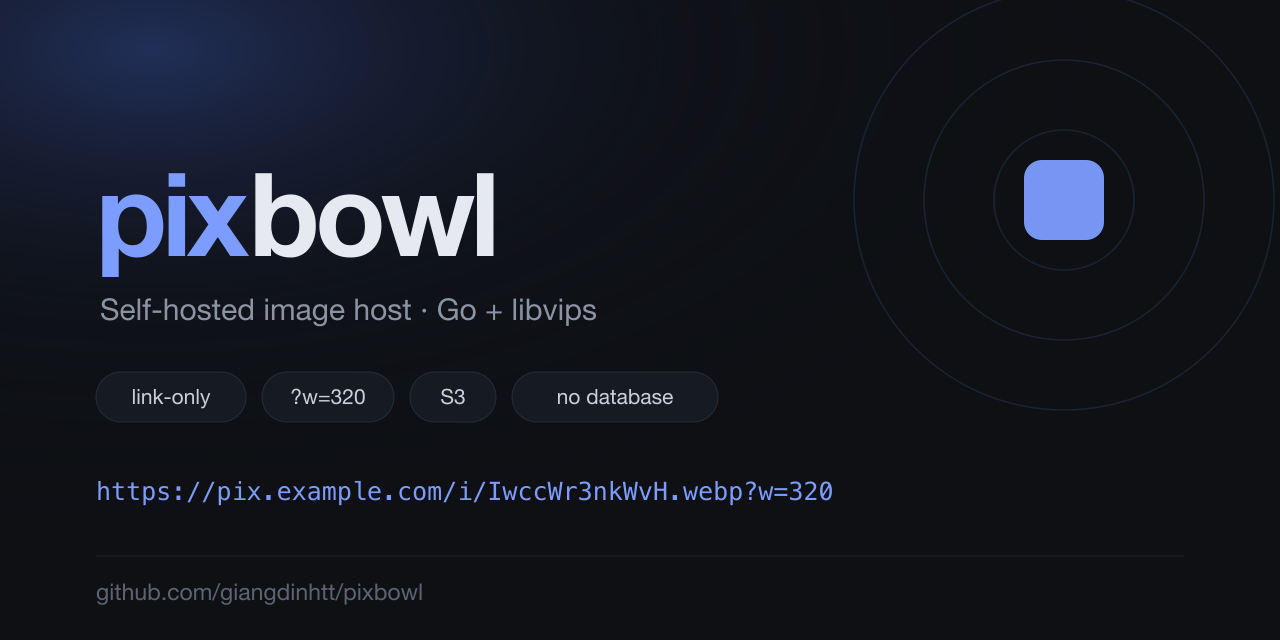
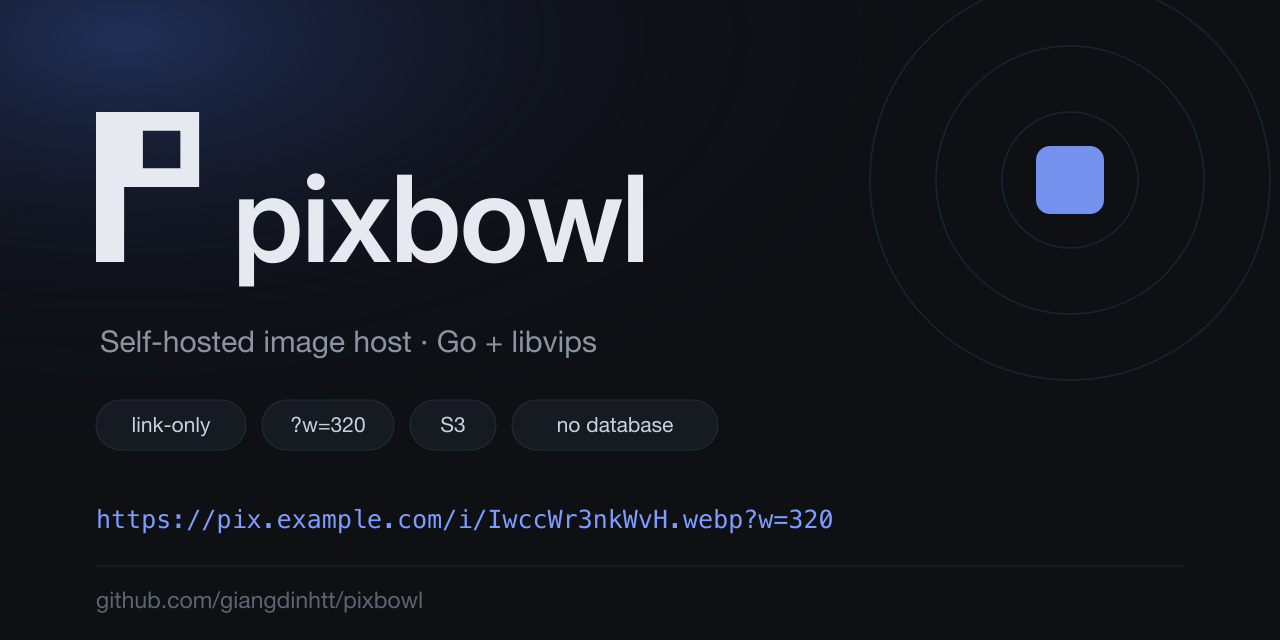
feat: P monogram identity with a pixel counter
The mark is the initial P whose counter is a square pixel: the letter and
the idea in one shape.

- symbol, outlined wordmark (Inter SemiBold), horizontal and stacked lockups
- favicon.ico / favicon.svg and the full web/PWA icon set, served by the app
  instead of the old 204 stub, with <link rel=icon> in both pages
- social preview card rebuilt around the new mark
- brand guide in docs/logo/README.md (clear space, sizes, colour, misuse)
- README shows the lockup

diff --git a/web/delete.html b/web/delete.html
@@ -4,6 +4,8 @@
 <meta charset="utf-8">
 <meta name="viewport" content="width=device-width, initial-scale=1">
 <meta name="robots" content="noindex, nofollow">
+<link rel="icon" href="/favicon.ico" sizes="32x32">
+<link rel="icon" href="/favicon.svg" type="image/svg+xml">
 <title>pixbowl — delete image</title>
 <style>
   :root { --bg:#0e1014; --panel:#161a21; --line:#262c36; --text:#e6e9ef; --muted:#8b94a3; --danger:#ff7a7a; }

diff --git a/web/index.html b/web/index.html
@@ -4,6 +4,8 @@
 <meta charset="utf-8">
 <meta name="viewport" content="width=device-width, initial-scale=1">
 <meta name="robots" content="noindex, nofollow">
+<link rel="icon" href="/favicon.ico" sizes="32x32">
+<link rel="icon" href="/favicon.svg" type="image/svg+xml">
 <title>pixbowl — upload images</title>
 <style>
   :root {

diff --git a/docs/logo/icons/head-snippet.html b/docs/logo/icons/head-snippet.html
@@ -1,0 +1,5 @@
+<link rel="icon" href="/favicon.ico" sizes="48x48">
+<link rel="icon" href="/favicon.svg" type="image/svg+xml">
+<link rel="apple-touch-icon" href="/apple-touch-icon.png">
+<link rel="manifest" href="/site.webmanifest">
+<meta name="theme-color" content="#0E1014">

diff --git a/internal/server/pages.go b/internal/server/pages.go
@@ -9,6 +9,7 @@ import (
 
 	"github.com/giangdinhtt/pixbowl/internal/id"
 	"github.com/giangdinhtt/pixbowl/internal/imageproc"
+	"github.com/giangdinhtt/pixbowl/web"
 )
 
 func (s *Server) handleIndex(w http.ResponseWriter, _ *http.Request) {
@@ -28,6 +29,18 @@ func (s *Server) handleDeletePage(w http.ResponseWriter, r *http.Request) {
 	w.Header().Set("Cache-Control", "no-store")
 	w.Header().Set("Content-Security-Policy", contentSecurityPolicy)
 	_, _ = io.WriteString(w, strings.ReplaceAll(s.deletePage, "{{ID}}", imageID))
+}
+
+func (s *Server) handleFaviconSVG(w http.ResponseWriter, _ *http.Request) {
+	w.Header().Set("Content-Type", "image/svg+xml")
+	w.Header().Set("Cache-Control", "public, max-age=604800")
+	_, _ = w.Write(web.FaviconSVG)
+}
+
+func (s *Server) handleFaviconICO(w http.ResponseWriter, _ *http.Request) {
+	w.Header().Set("Content-Type", "image/x-icon")
+	w.Header().Set("Cache-Control", "public, max-age=604800")
+	_, _ = w.Write(web.FaviconICO)
 }
 
 func (s *Server) handleLiveness(w http.ResponseWriter, _ *http.Request) {

diff --git a/internal/server/server_test.go b/internal/server/server_test.go
@@ -681,3 +681,21 @@ func TestUploadTokenAlongsideBasicAuth(t *testing.T) {
 		t.Fatalf("upload via token = %d, want 200", viaToken.StatusCode)
 	}
 }
+
+func TestFavicons(t *testing.T) {
+	ts := newTestServer(t, nil)
+	cases := []struct{ path, contentType string }{
+		{"/favicon.svg", "image/svg+xml"},
+		{"/favicon.ico", "image/x-icon"},
+	}
+	for _, tc := range cases {
+		resp := get(t, ts.URL+tc.path)
+		resp.Body.Close()
+		if resp.StatusCode != http.StatusOK {
+			t.Errorf("%s = %d, want 200", tc.path, resp.StatusCode)
+		}
+		if got := resp.Header.Get("Content-Type"); got != tc.contentType {
+			t.Errorf("%s content type = %q, want %q", tc.path, got, tc.contentType)
+		}
+	}
+}

diff --git a/internal/server/server.go b/internal/server/server.go
@@ -99,9 +99,8 @@ func (s *Server) Handler() http.Handler {
 	mux.HandleFunc("GET /liveness", s.handleLiveness)
 	mux.HandleFunc("GET /healthz", s.handleHealth)
 	mux.HandleFunc("GET /robots.txt", s.handleRobots)
-	mux.HandleFunc("GET /favicon.ico", func(w http.ResponseWriter, _ *http.Request) {
-		w.WriteHeader(http.StatusNoContent)
-	})
+	mux.HandleFunc("GET /favicon.ico", s.handleFaviconICO)
+	mux.HandleFunc("GET /favicon.svg", s.handleFaviconSVG)
 	mux.HandleFunc("OPTIONS /", s.handlePreflight)
 
 	return s.wrap(mux)

diff --git a/web/embed.go b/web/embed.go
@@ -7,3 +7,9 @@ var IndexHTML string
 
 //go:embed delete.html
 var DeleteHTML string
+
+//go:embed favicon.svg
+var FaviconSVG []byte
+
+//go:embed favicon.ico
+var FaviconICO []byte

diff --git a/docs/logo/README.md b/docs/logo/README.md
@@ -1,0 +1,55 @@
+# pixbowl logo
+
+The mark is a capital **P** whose counter is a **square pixel** — the initial and
+the idea in one shape. The wordmark is Inter SemiBold, outlined to paths and
+tracked at −1.8%.
+
+## Files
+
+| File | Use |
+|---|---|
+| `pixbowl-symbol.svg` | primary mark, ink on light backgrounds |
+| `pixbowl-symbol-white.svg` | reversed mark for dark backgrounds |
+| `pixbowl-wordmark.svg` | wordmark only (headers, footers, README badges) |
+| `pixbowl-horizontal.svg` | mark + wordmark side by side (baseline aligned) |
+| `pixbowl-stacked.svg` | mark above the wordmark (avatars, covers, narrow columns) |
+| `icons/favicon.ico`, `icons/favicon.svg` | browser tab |
+| `icons/apple-touch-icon.png`, `icons/icon-192.png`, `icons/icon-512.png` | app / PWA |
+| `icons/site.webmanifest`, `icons/head-snippet.html` | drop-in web icons |
+
+The symbols are single-path SVGs with a real hole (`fill-rule="evenodd"`), so
+they scale, cut and invert without artefacts.
+
+## Colour
+
+| Name | Hex | Notes |
+|---|---|---|
+| Ink | `#0E1014` | primary on light backgrounds |
+| Paper | `#FFFFFF` | reversed mark |
+| Accent | `#7C9CFF` | dark backgrounds only — on white it is 2.6 : 1 |
+
+Two colours are enough. The one-colour versions must still work; never rely on
+the accent to carry the shape.
+
+## Clear space and sizes
+
+- **Clear space:** at least the width of the counter (≈16% of the symbol height)
+  on every side.
+- **Minimum sizes:** symbol 16 px; horizontal lockup 160 px wide; stacked lockup
+  120 px wide. Below that use the symbol alone.
+- Do not redraw or re-typeset the wordmark; the outlines are the master.
+
+## Don't
+
+- Fill the counter — it is the pixel, and the reason the mark works.
+- Rotate, outline, add shadows, bevels or gradients.
+- Stretch or condense; scale uniformly.
+- Place the ink mark on a dark surface (use the white version).
+- Put the accent on white or on a busy photo.
+- Recolour the mark outside the palette above.
+
+## Typography
+
+The wordmark is outlined from **Inter SemiBold** (SIL Open Font License), so no
+font file is required to use the logo. If you typeset the name elsewhere, use
+Inter and keep the same tracking.

diff --git a/README.md b/README.md
@@ -1,5 +1,7 @@
 # pixbowl
 
+<img src="docs/logo/pixbowl-horizontal.svg" alt="pixbowl logo" width="320">
+
 A minimal image host for small VPSs: public uploads, one unguessable link per image, resize via query string, a single Go binary, and **no database**.
 
 - **Go + libvips** (via `govips`) — the same engine behind sharp and imgproxy, so resizing and format conversion are fast and memory-friendly.
